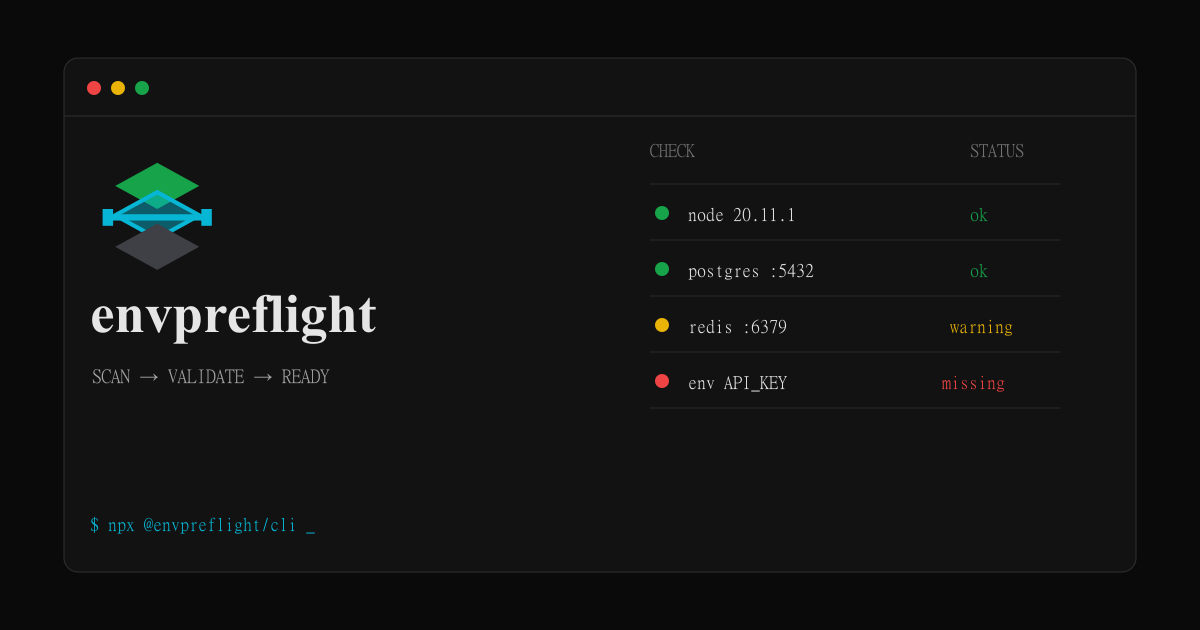
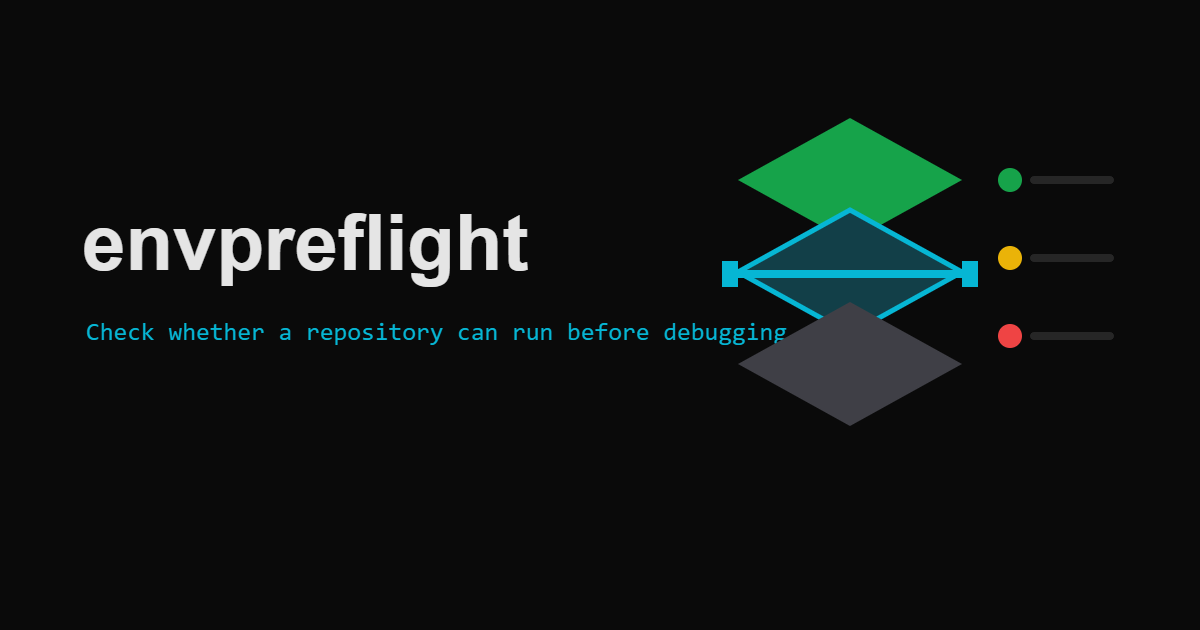
feat(brand): integrate approved envpreflight identity

diff --git a/tests/brand-assets.test.ts b/tests/brand-assets.test.ts
@@ -12,4 +12,20 @@ describe('envpreflight product identity', () => {
     expect(layout).toContain("icon: '/favicon.svg'");
     expect(layout).toContain("url: '/og.png'");
   });
+
+  it('ships the approved preflight identity at required sizes', async () => {
+    const [logo, cover, favicon, apple, og] = await Promise.all([
+      readFile(new URL('../docs/public/logo-mark.svg', import.meta.url), 'utf8'),
+      readFile(new URL('../docs/public/cover.svg', import.meta.url), 'utf8'),
+      readFile(new URL('../docs/public/favicon.png', import.meta.url)),
+      readFile(new URL('../docs/public/apple-touch-icon.png', import.meta.url)),
+      readFile(new URL('../docs/public/og.png', import.meta.url)),
+    ]);
+    const pngSize = (source: Buffer) => ({ width: source.readUInt32BE(16), height: source.readUInt32BE(20) });
+    expect(logo).toMatch(/<title[^>]*>envpreflight logo<\/title>/);
+    expect(cover).toContain('Check whether a repository can run before debugging.');
+    expect(pngSize(favicon)).toEqual({ width: 32, height: 32 });
+    expect(pngSize(apple)).toEqual({ width: 180, height: 180 });
+    expect(pngSize(og)).toEqual({ width: 1200, height: 630 });
+  });
 });
